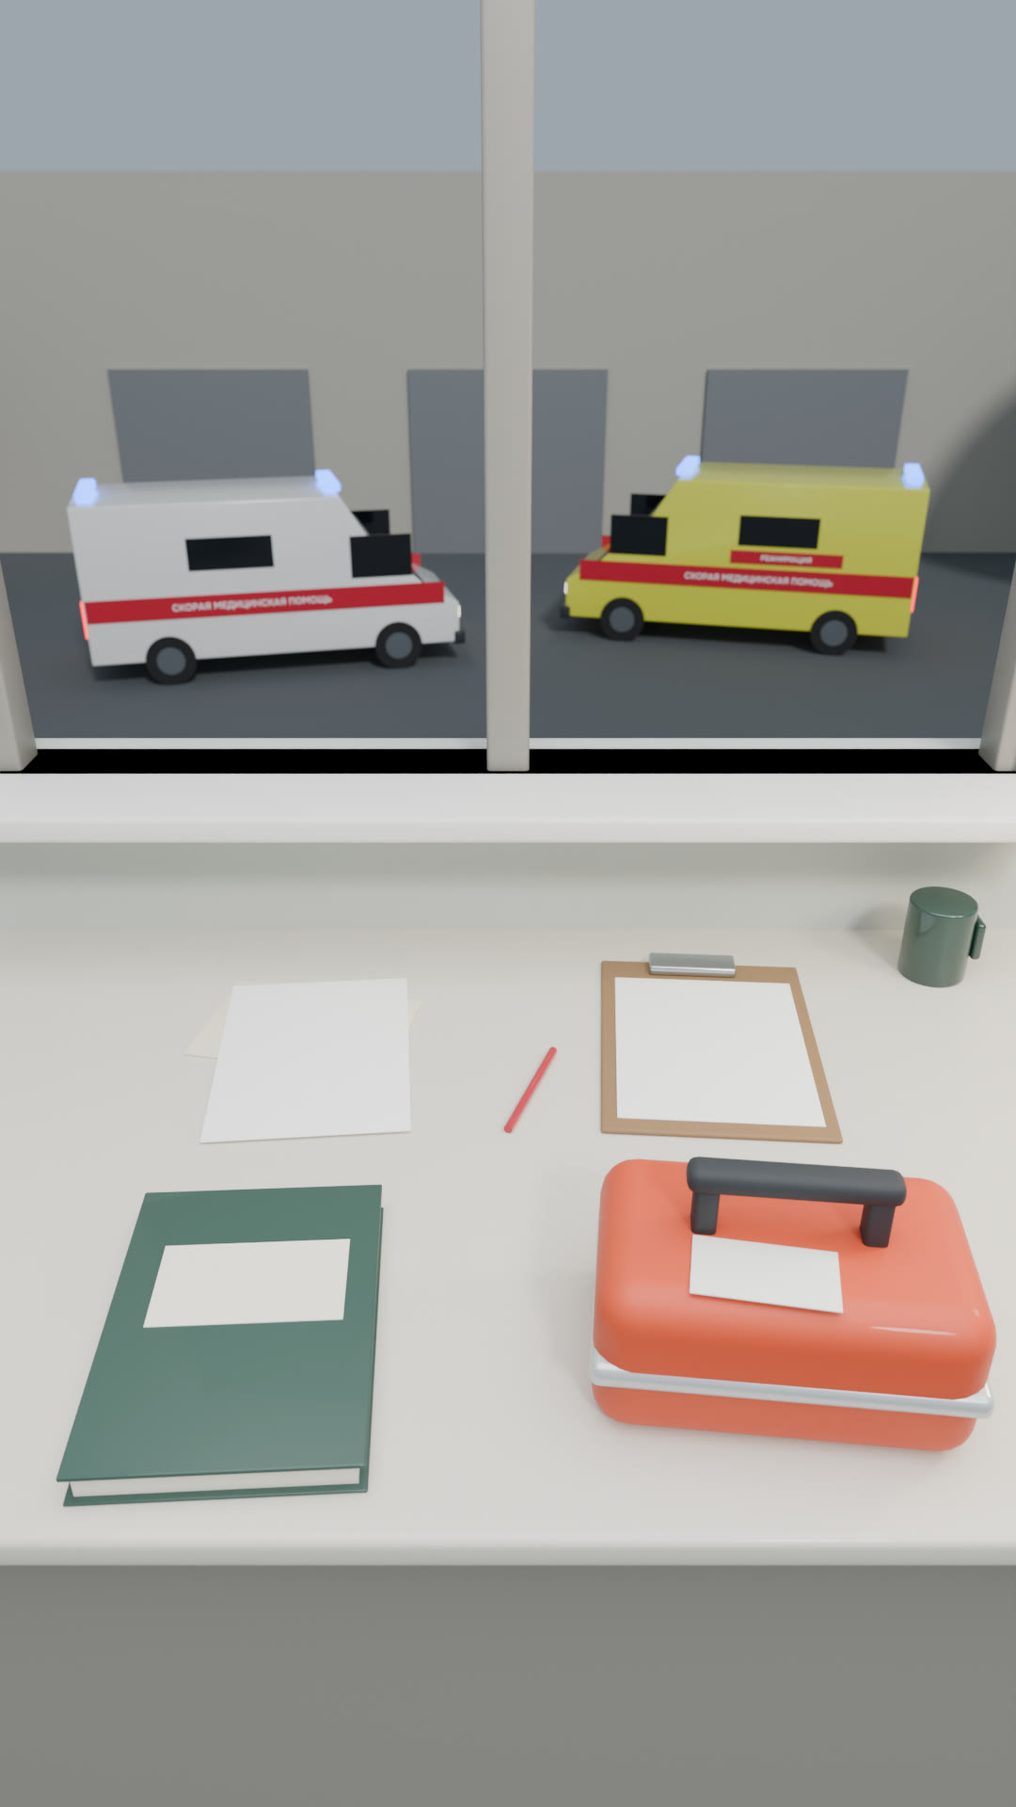
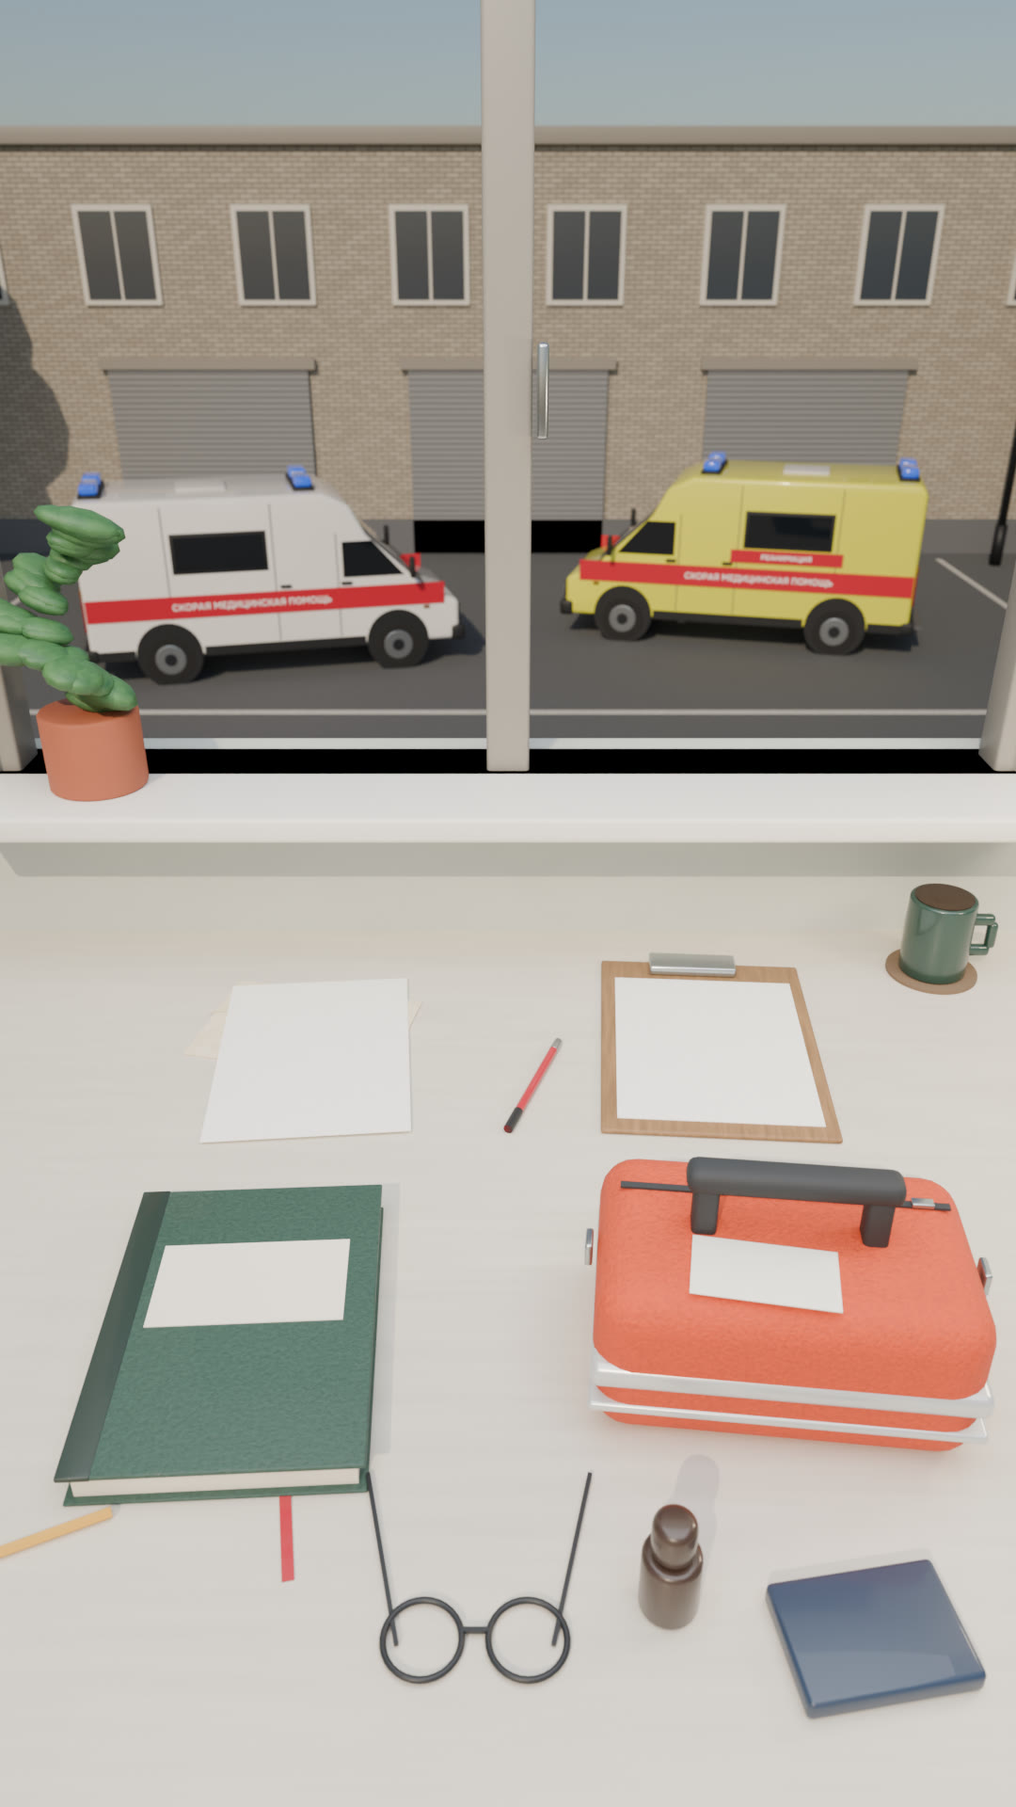
Вид из Blender: станция — стол до зрителя, фактуры, дневной двор с кирпичным гаражом
Стол подходит к зрителю вплотную: серой полосы пола внизу кадра нет, у ближнего края — очки, штамп с подушкой,
карандаш, скрепки (вне мест касания). Ламинат стола, бумвинил и корешок журнала, ткань и молния сумки, чай на
подставке, цветок на подоконнике. Двор: физическое дневное небо, кирпичный гараж с рольворотами и окнами, разметка,
деревья, машины классов B и C — новая модель из insert.py. Места предметов и углы листов прежние: station.gen.ts
не изменился. Листы «было — стало» для станции и пульта.

Claude-Session: https://claude.ai/code/session_013TkbiXwSbkfdZ3SPy1HubC

diff --git a/blender/station.py b/blender/station.py
@@ -36,12 +36,15 @@ if bpy.app.version_string.split(' ')[0] != VERSION:
 ROOT = os.path.dirname(os.path.dirname(os.path.abspath(__file__)))
 sys.path.insert(0, os.path.dirname(os.path.abspath(__file__)))
 import insert  # noqa: E402 — машина из вставки: модуль без запуска (main только из командной строки)
+import look  # noqa: E402 — общие материалы и отделка кадра
 
 PREVIEW = '--preview' in sys.argv
 W, H = (1080, 1920) if not PREVIEW else (360, 640)
 SAMPLES = 160 if not PREVIEW else 16
 SEED = 11
 TOP = 0.74
+# яркость неба: подобрана так, чтобы двор был светлым, а небо не выгорало
+SKY = float(os.environ.get('STATION_SKY', '0.12'))
 WALL = 0.8
 
 
@@ -98,21 +101,28 @@ def cyl(name, material, r, h, loc, rot=(0, 0, 0), sides=24, bevel=0.0):
     return finish(ob, material, bevel)
 
 
+def shade(c, k):
+    return (c[0] * k, c[1] * k, c[2] * k, 1.0)
+
+
 def materials():
     return {
-        'desk': mat('desk', COL['desk'], rough=0.42, coat=0.15),
-        'wall': mat('wall', COL['wall'], rough=0.85),
+        # столешница — светлый ламинат: едва заметные волокна вдоль стола, блеск неровный
+        'desk': look.grain('st_desk', shade(COL['desk'], 0.9), COL['desk'], scale=5.0, rough=(0.28, 0.5), bump=0.03, coat=0.15, stretch=(1, 14, 14)),
+        'wall': look.grain('st_wall', shade(COL['wall'], 0.94), COL['wall'], scale=7.0, rough=(0.8, 0.9), bump=0.08),
         'sill': mat('sill', COL['lamp'], rough=0.4),
         'frame': mat('frame', COL['edge'], rough=0.45),
         'glass': mat('glass', (0.6, 0.65, 0.7, 1), rough=0.02),
-        'paper': mat('paper', COL['paper'], rough=0.85),
-        'envelope': mat('envelope', insert.lin('#e7dcc4'), rough=0.8),
-        'board': mat('board', insert.lin('#8a6a46'), rough=0.6),
+        'paper': look.grain('st_paper', shade(COL['paper'], 0.96), COL['paper'], scale=120.0, rough=(0.8, 0.9), bump=0.02),
+        'envelope': look.grain('st_envelope', insert.lin('#d8caa9'), insert.lin('#e7dcc4'), scale=90.0, rough=(0.75, 0.9), bump=0.04),
+        'board': look.grain('st_board', insert.lin('#7a5b3a'), insert.lin('#96744d'), scale=14.0, rough=(0.5, 0.7), bump=0.06, stretch=(12, 1, 12)),
         'metal': mat('metal', COL['metal'], rough=0.25, metal=0.9),
-        'cover': mat('cover', insert.lin('#2d4a3f'), rough=0.55, coat=0.2),
+        # обложка журнала — бумвинил: мелкое зерно
+        'cover': look.grain('st_cover', insert.lin('#27433a'), insert.lin('#335447'), scale=260.0, rough=(0.45, 0.65), bump=0.25, coat=0.15),
         'label': mat('label', insert.lin('#efe9da'), rough=0.8),
         'pages': mat('pages', insert.lin('#ece6d6'), rough=0.9),
-        'bag': mat('bag', insert.lin('#d2461f'), rough=0.6, coat=0.1),
+        # сумка — плотная ткань: переплетение мелким зерном
+        'bag': look.grain('st_bag', insert.lin('#c23f1b'), insert.lin('#dc4c22'), scale=320.0, rough=(0.55, 0.8), bump=0.35),
         'strap': mat('strap', insert.lin('#2b2e31'), rough=0.7),
         'reflect': mat('reflect', insert.lin('#cfd3d4'), rough=0.3, metal=0.4),
         'tag': mat('tag', insert.lin('#f4f1e6'), rough=0.7),
@@ -120,9 +130,10 @@ def materials():
         'pen': mat('pen', COL['kumach'], rough=0.3, coat=0.4),
         'dark': mat('dark', COL['dark'], rough=0.45),
         'key': mat('key', COL['key'], rough=0.55),
-        'asphalt': mat('asphalt', insert.lin('#55595c'), rough=0.85),
-        'garage': mat('garage', insert.lin('#b9b4a8'), rough=0.8),
-        'gate': mat('gate', insert.lin('#7a7d80'), rough=0.6),
+        'asphalt': look.grain('st_asphalt', insert.lin('#4b4f52'), insert.lin('#5f6366'), scale=30.0, rough=(0.75, 0.95), bump=0.2),
+        'garage': look.bricks('st_garage', insert.lin('#a39a8a'), insert.lin('#b5ad9d'), insert.lin('#77726a'), size=(0.26, 0.085), gap=0.012,
+                              rough=0.85, bump=0.5, turn=(math.radians(90), 0, 0)),
+        'gate': look.stripes('st_gate', insert.lin('#6d7073'), insert.lin('#8b8e90'), width=0.11, rough=0.45, axis=2),
         'tree': mat('tree', insert.lin('#3f5a45'), rough=0.9),
         'floor': mat('floor', COL['floor'], rough=0.7),
         'edge': mat('edge', COL['edge'], rough=0.5),
@@ -130,37 +141,80 @@ def materials():
 
 
 def room(M):
-    # пол кабинета, стол с передней стенкой и стена с окном за ним
+    # стол с передней стенкой и стена с окном за ним; стол подходит к зрителю вплотную — пола в кадре нет
     box('floor', M['floor'], (4.0, 3.0, 0.02), (0, -0.6, -0.02))
-    box('desk_top', M['desk'], (1.7, 0.84, 0.03), (0, 0.4, TOP - 0.03), bevel=0.008, segments=4)
-    box('desk_front', M['edge'], (1.6, 0.02, 0.5), (0, 0.06, TOP - 0.56))
+    box('desk_top', M['desk'], (1.7, 1.3, 0.03), (0, 0.17, TOP - 0.03), bevel=0.008, segments=4)
     box('wall_low', M['wall'], (3.0, 0.12, 0.95), (0, WALL + 0.06, 0))
     box('wall_high', M['wall'], (3.0, 0.12, 0.8), (0, WALL + 0.06, 2.0))
     box('wall_l', M['wall'], (0.9, 0.12, 1.1), (-1.05, WALL + 0.06, 0.9))
     box('wall_r', M['wall'], (0.9, 0.12, 1.1), (1.05, WALL + 0.06, 0.9))
     box('sill', M['sill'], (1.3, 0.22, 0.03), (0, WALL - 0.02, 0.92), bevel=0.006)
-    # рама окна: две створки
+    # рама окна: две створки, переплёт, ручка
     for i, x in enumerate((-0.6, 0.0, 0.6)):
         box(f'mullion{i}', M['frame'], (0.05, 0.06, 1.1), (x, WALL + 0.04, 0.9), bevel=0.005)
     box('transom_lo', M['frame'], (1.25, 0.06, 0.05), (0, WALL + 0.04, 0.9), bevel=0.005)
     box('transom_hi', M['frame'], (1.25, 0.06, 0.05), (0, WALL + 0.04, 1.95), bevel=0.005)
+    box('window_handle', M['metal'], (0.012, 0.02, 0.09), (0.035, WALL + 0.0, 1.32), bevel=0.004)
+    # на подоконнике слева — цветок в горшке
+    cyl('pot', mat('pot', insert.lin('#a2573c'), rough=0.7), 0.055, 0.09, (-0.47, WALL - 0.03, 0.95), sides=24, bevel=0.004)
+    leaf = look.grain('st_leaf', insert.lin('#2f5a36'), insert.lin('#4c7a45'), scale=30, rough=(0.45, 0.65))
+    # куст из мелких листьев: места — по счёту, по кругу и вверх
+    for i in range(34):
+        ang, h = i * 2.4, (i * 0.618) % 1.0
+        rad = (0.015 + 0.075 * math.sin(h * math.pi)) * (0.35, 0.7, 1.0)[i % 3]
+        bpy.ops.mesh.primitive_ico_sphere_add(subdivisions=2, radius=0.022 + 0.008 * ((i * 7) % 3) / 2,
+                                              location=(-0.47 + math.cos(ang) * rad, WALL - 0.03 + math.sin(ang) * rad * 0.8, 1.05 + h * 0.2))
+        ob = bpy.context.object
+        ob.name = f'leaf{i}'
+        ob.scale = (1.3, 0.9, 0.5)
+        ob.rotation_euler = (math.radians(20 * math.sin(ang)), math.radians(20 * math.cos(ang)), ang)
+        ob.data.materials.append(leaf)
+        for p in ob.data.polygons:
+            p.use_smooth = True
 
 
 def yard(M):
-    """Двор подстанции днём за окном: асфальт, гараж с воротами, деревья; кабинет на втором этаже."""
-    box('ground', M['asphalt'], (60, 60, 0.1), (0, 30, -4.1))
-    box('garage', M['garage'], (24, 0.4, 7), (0, 26, -4.0))
+    """Двор подстанции днём за окном: асфальт с разметкой стоянки, кирпичный гараж с рольворотами и окнами второго
+    этажа, фонарь, деревья; кабинет на втором этаже."""
+    G = -4.0
+    box('ground', M['asphalt'], (80, 80, 0.1), (0, 30, G - 0.1))
+    box('garage', M['garage'], (30, 0.4, 7.4), (0, 26, G))
+    box('garage_parapet', M['edge'], (30.4, 0.7, 0.3), (0, 26, G + 7.4), bevel=0.03)
+    box('garage_plinth', mat('plinth', insert.lin('#63666a'), rough=0.85), (30, 0.5, 0.7), (0, 25.95, G))
     for i, x in enumerate((-6.0, 0.0, 6.0)):
-        box(f'gate{i}', M['gate'], (4.0, 0.1, 3.6), (x, 25.75, -4.0))
-    for i, (x, y, r) in enumerate(((-13, 22, 2.4), (13, 21, 2.8), (-17, 30, 3.0), (17, 31, 3.2))):
-        bpy.ops.mesh.primitive_uv_sphere_add(radius=r, location=(x, y, -4.0 + r + 1.6))
-        bpy.context.object.data.materials.append(M['tree'])
+        box(f'gate{i}', M['gate'], (4.0, 0.1, 3.6), (x, 25.75, G))
+        box(f'gate_frame{i}', M['edge'], (4.3, 0.14, 0.2), (x, 25.72, G + 3.6))
+    win = look.Boxes('garage_windows', mat('yard_glass', insert.lin('#2b3a4a'), rough=0.05, coat=0.8))
+    frm = look.Boxes('garage_frames', mat('yard_frame', insert.lin('#d9d6cc'), rough=0.5))
+    for x in (-10.5, -7.5, -4.5, -1.5, 1.5, 4.5, 7.5, 10.5):
+        frm.add((1.5, 0.08, 1.7), (x, 25.78, G + 5.6))
+        for dx in (-0.34, 0.34):
+            win.add((0.62, 0.05, 1.5), (x + dx, 25.74, G + 5.6))
+    win.build()
+    frm.build()
+    # разметка стоянки — белая, стёртая
+    paint = look.grain('st_paint', insert.lin('#a9aba7'), insert.lin('#d5d6d0'), scale=30, rough=(0.6, 0.85), bump=0.05)
+    lines = look.Boxes('yard_lines', paint)
+    for x in (-9.0, -6.0, -3.0, 0.0, 3.0, 6.0, 9.0):
+        lines.add((0.12, 5.0, 0.01), (x, 22.6, G + 0.004))
+    lines.add((24, 0.14, 0.01), (0, 15.4, G + 0.004))
+    lines.build()
+    # дневные деревья: материал кроны и коры заводим до insert.tree — тот берёт их по имени
+    look.grain('leaf', insert.lin('#38563a'), insert.lin('#567a4c'), scale=3.0, rough=(0.7, 0.9), bump=0.4)
+    mat_bark = insert.mat('bark', insert.lin('#4a3d33'), 0.9)
+    _ = mat_bark
+    for i, (x, y, h, c) in enumerate(((-13.5, 22, 7.5, 2.4), (13.5, 21, 8.0, 2.6), (-18, 30, 9.0, 3.0), (18, 31, 9.5, 3.2))):
+        insert.tree(f'tree{i}', (x, y, G), h, c)
+    insert.lamp_post('yard_lamp', (10.0, 24.6), energy=0, toward=-90, height=6.0)
+    for ob in list(bpy.data.objects):
+        if ob.name.startswith('yard_lamp') and ob.type != 'LIGHT':
+            ob.location.z += G
     cars = []
     # стоят боком к окну, полосой с надписью к нам: общепрофильная (класс B) и реанимобиль (класс C)
     for i, (x, y, heading, label) in enumerate(((-3.6, 18.0, 14, None), (3.8, 19.5, 166, 'РЕАНИМАЦИЯ'))):
         car = insert.ambulance()
         car.name = f'car{i}'
-        car.location = (x, y, -4.0)
+        car.location = (x, y, G)
         car.rotation_euler = (0, 0, math.radians(heading))
         cars.append(car)
         # реанимобиль (класс C) — лимонный флуоресцентный, со своей надписью на полосе (ГОСТ Р 50574-2019, п. 4.2.1,
@@ -174,12 +228,20 @@ def yard(M):
             red, white = insert.mat('stripe', insert.lin('#c4122f'), 0.35, coat=0.4), insert.mat('letters', insert.lin('#ffffff'), 0.4)
             for side in (-1, 1):
                 y = side * (1.0 + 0.006)
-                insert.block(f'resus_band{side}', red, (1.7, 0.01, 0.2), (-0.75, y, 1.45), parent=car)
-                insert.text(f'resus_label{side}', label, 0.14, white, (-0.75, y + side * 0.008, 1.45), (90, 0, 0 if side < 0 else 180), car)
-    # фары машин на стоянке не горят
+                insert.block(f'resus_band{side}', red, (1.7, 0.01, 0.2), (-0.75, y, 1.46), parent=car)
+                insert.text(f'resus_label{side}', label, 0.14, white, (-0.75, y + side * 0.008, 1.46), (90, 0, 0 if side < 0 else 180), car)
+    # фары и маячки машин на стоянке не горят: гасим свет и свечение стёкол
     for ob in list(bpy.data.objects):
-        if ob.type == 'LIGHT' and ob.parent in cars:
+        if ob.type == 'LIGHT' and (ob.parent in cars or ob.name.startswith('yard_lamp')):
             bpy.data.objects.remove(ob, do_unlink=True)
+    for name, k in (('headlamp', 0.35), ('fog', 0.1), ('amber', 0.25), ('amber_dim', 0.2), ('taillamp', 0.3), ('beacon', 0.5), ('lamp_head', 0.3)):
+        m = bpy.data.materials.get(name)
+        if m:
+            bs = m.node_tree.nodes['Principled BSDF']
+            m.node_tree.animation_data_clear()
+            bs.inputs['Emission Strength'].default_value = k
+            if name in ('headlamp', 'fog', 'lamp_head'):
+                bs.inputs['Base Color'].default_value = insert.lin('#d9dcdc')
 
 
 def items(M):
@@ -212,10 +274,53 @@ def items(M):
     box('bag_grip', M['strap'], (0.15, 0.026, 0.02), at(0, 0.0, TOP + 0.165), rot=(0, 0, yaw), bevel=0.008)
     tag = box('bag_tag', M['tag'], (0.1, 0.055, 0.0015), at(-0.02, -0.045, TOP + 0.131), rot=(0, 0, yaw - 4), bevel=0.0005)
     parts['bag'] = {'tap': ['bag', 'bag_strip', 'bag_grip'], 'quad': tag.name}
-    # мелочи: кружка, ручка
-    cyl('mug', M['mug'], 0.038, 0.095, (0.5, 0.7, TOP), sides=40, bevel=0.003)
-    box('mug_handle', M['mug'], (0.012, 0.034, 0.048), (0.543, 0.7, TOP + 0.024), bevel=0.005)
+    # отделка предметов (места листов и касаний не меняет): клапан конверта, корешок и закладка журнала, молния и
+    # вторая полоса сумки
+    fold = mat('fold', insert.lin('#c9b994'), rough=0.85)
+    for i, ang in enumerate((-12 + 24, -12 - 24)):
+        box(f'envelope_fold{i}', fold, (0.125, 0.0012, 0.0006), (-0.22 + (-0.052 if i == 0 else 0.052) * math.cos(math.radians(-12)), 0.607 + (-0.052 if i == 0 else 0.052) * math.sin(math.radians(-12)), TOP + 0.0031), rot=(0, 0, ang + (180 if i else 0)))
+    lc, ls = math.cos(math.radians(lyaw)), math.sin(math.radians(lyaw))
+    box('ledger_spine', mat('spine', insert.lin('#1c2f28'), rough=0.5, coat=0.2), (0.024, 0.281, 0.0045), (lx - 0.092 * lc, ly - 0.092 * ls, TOP + 0.025), rot=(0, 0, lyaw), bevel=0.0015)
+    box('ledger_ribbon', M['pen'], (0.008, 0.07, 0.0008), (lx + 0.05 * lc + 0.165 * ls, ly + 0.05 * ls - 0.165 * lc, TOP + 0.0005), rot=(0, 0, lyaw + 8))
+    box('bag_zip', M['strap'], (0.24, 0.006, 0.002), at(0, 0.035, TOP + 0.13), rot=(0, 0, yaw))
+    box('bag_zip_pull', M['metal'], (0.016, 0.008, 0.004), at(0.1, 0.035, TOP + 0.131), rot=(0, 0, yaw), bevel=0.001)
+    box('bag_strip2', M['reflect'], (0.2725, 0.1745, 0.008), at(0, 0, TOP + 0.03), rot=(0, 0, yaw), bevel=0.003)
+    for i, dx in enumerate((-0.141, 0.141)):
+        box(f'bag_ring{i}', M['metal'], (0.006, 0.02, 0.02), at(dx, 0.0, TOP + 0.09), rot=(0, 0, yaw), bevel=0.002)
+    # мелочи: кружка с чаем на подставке, ручка с колпачком, карандаш
+    cyl('coaster', mat('coaster', insert.lin('#6e5a45'), rough=0.8), 0.052, 0.004, (0.5, 0.7, TOP), sides=40)
+    cyl('mug', M['mug'], 0.038, 0.095, (0.5, 0.7, TOP + 0.004), sides=40, bevel=0.003)
+    cyl('mug_tea', mat('tea', insert.lin('#2b160b'), rough=0.08, coat=0.5), 0.033, 0.001, (0.5, 0.7, TOP + 0.0992), sides=40)
+    for i, (dz, dx, w) in enumerate(((0.07, 0.048, 0.03), (0.05, 0.062, 0.012), (0.03, 0.048, 0.03))):
+        box(f'mug_handle{i}', M['mug'], (w, 0.012, 0.014 if i != 1 else 0.034), (0.5 + dx, 0.7, TOP + dz - (0.007 if i != 1 else 0.017)), bevel=0.005)
     cyl('pen', M['pen'], 0.0045, 0.14, (0.0, 0.4, TOP + 0.005), rot=(0, 90, 70), sides=12)
+    pc, ps = math.cos(math.radians(70)), math.sin(math.radians(70))
+    cyl('pen_tip', M['metal'], 0.0046, 0.018, (0.14 * pc, 0.4 + 0.14 * ps, TOP + 0.005), rot=(0, 90, 70), sides=12, bevel=0.001)
+    cyl('pen_cap', M['dark'], 0.0048, 0.03, (0.0, 0.4, TOP + 0.005), rot=(0, 90, 70), sides=12)
+    # у ближнего края стола: очки, штамп с подушкой, скрепки, карандаш — вне мест касаний
+    rim = M['dark']
+    for i, dx in enumerate((-0.032, 0.032)):
+        bpy.ops.mesh.primitive_torus_add(major_radius=0.024, minor_radius=0.0022, major_segments=32, minor_segments=8,
+                                         location=(-0.02 + dx, -0.085, TOP + 0.004))
+        lens_rim = bpy.context.object
+        lens_rim.name = f'glasses{i}'
+        lens_rim.data.materials.append(rim)
+        for p in lens_rim.data.polygons:
+            p.use_smooth = True
+    box('glasses_bridge', rim, (0.016, 0.003, 0.003), (-0.02, -0.08, TOP + 0.003))
+    for i, sx in enumerate((-1, 1)):
+        box(f'glasses_arm{i}', rim, (0.003, 0.12, 0.003), (-0.02 + sx * 0.062, -0.03, TOP + 0.002), rot=(0, 0, -sx * 14))
+    box('stamp_pad', mat('stamp_pad', insert.lin('#28384f'), rough=0.4, coat=0.3), (0.11, 0.075, 0.016), (0.22, -0.085, TOP), rot=(0, 0, 9), bevel=0.004)
+    cyl('stamp', mat('stamp', insert.lin('#3b2a20'), rough=0.35, coat=0.4), 0.019, 0.05, (0.1, -0.06, TOP), sides=24, bevel=0.004)
+    cyl('stamp_knob', mat('stamp', insert.lin('#3b2a20'), rough=0.35, coat=0.4), 0.014, 0.03, (0.1, -0.06, TOP + 0.05), sides=24, bevel=0.006)
+    cyl('pencil', mat('pencil', insert.lin('#d9a441'), rough=0.45), 0.0038, 0.17, (-0.42, -0.07, TOP + 0.004), rot=(0, 90, 24), sides=6)
+    for i, (x, y, a) in enumerate(((-0.6, 0.02, 20), (-0.57, -0.02, 75), (-0.62, -0.05, -30))):
+        bpy.ops.mesh.primitive_torus_add(major_radius=0.008, minor_radius=0.0007, major_segments=16, minor_segments=6, location=(x, y, TOP + 0.001))
+        clip = bpy.context.object
+        clip.name = f'paperclip{i}'
+        clip.scale = (2.0, 0.7, 1)
+        clip.rotation_euler = (0, 0, math.radians(a))
+        clip.data.materials.append(M['metal'])
     return parts
 
 
@@ -239,16 +344,20 @@ def lights():
     warm.data.energy = 18
     warm.data.shadow_soft_size = 0.08
     warm.data.color = (1.0, 0.82, 0.58)
-    bpy.ops.object.light_add(type='SUN', location=(0, 10, 10))
-    sun = bpy.context.object
-    sun.data.energy = 2.2
-    sun.data.angle = math.radians(8)
-    # солнце — из-за спины зрителя: двор освещён спереди
-    sun.rotation_euler = (math.radians(50), 0, math.radians(20))
+    # небо — физическая модель дневного неба (узел «небо» Blender): солнце — из-за спины зрителя, двор освещён спереди
     world = bpy.data.worlds.new('day')
     world.use_nodes = True
-    world.node_tree.nodes['Background'].inputs['Color'].default_value = insert.lin('#b9c9d8')
-    world.node_tree.nodes['Background'].inputs['Strength'].default_value = 0.9
+    nt = world.node_tree
+    sky = nt.nodes.new('ShaderNodeTexSky')
+    sky.sky_type = 'NISHITA'
+    sky.sun_elevation = math.radians(38)
+    sky.sun_rotation = math.radians(200)
+    sky.sun_intensity = 0.25
+    sky.air_density = 1.2
+    sky.dust_density = 1.5
+    sky.ozone_density = 2.0
+    nt.links.new(sky.outputs['Color'], nt.nodes['Background'].inputs['Color'])
+    nt.nodes['Background'].inputs['Strength'].default_value = SKY
     bpy.context.scene.world = world
 
 
@@ -330,6 +439,7 @@ def main():
     scene.view_settings.exposure = -0.2
     scene.render.image_settings.file_format = 'PNG'
     scene.render.image_settings.color_mode = 'RGB'
+    look.polish(scene, bloom=0.15, threshold=3.0, size=0.4, vignette=0.12)
     bpy.context.view_layer.update()
 
     places = {k: {'tap': rect(project(scene, cam, v['tap'])), 'quad': top_quad(scene, cam, v['quad'])} for k, v in parts.items()}
